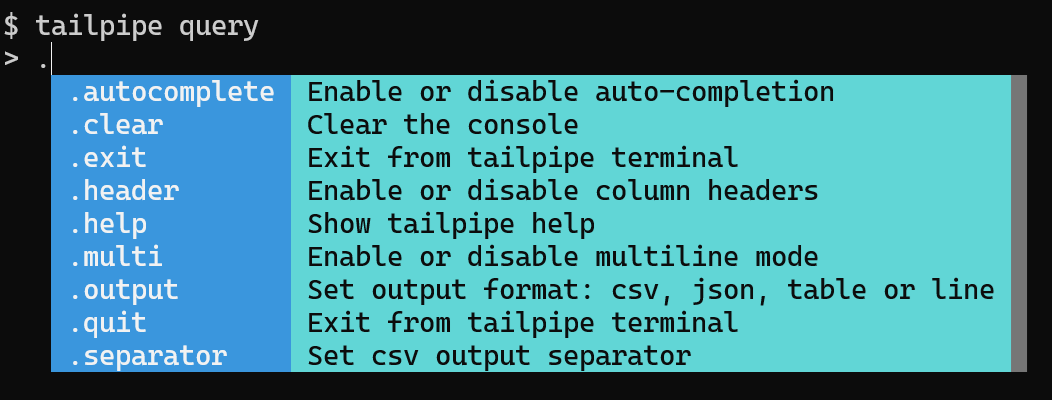
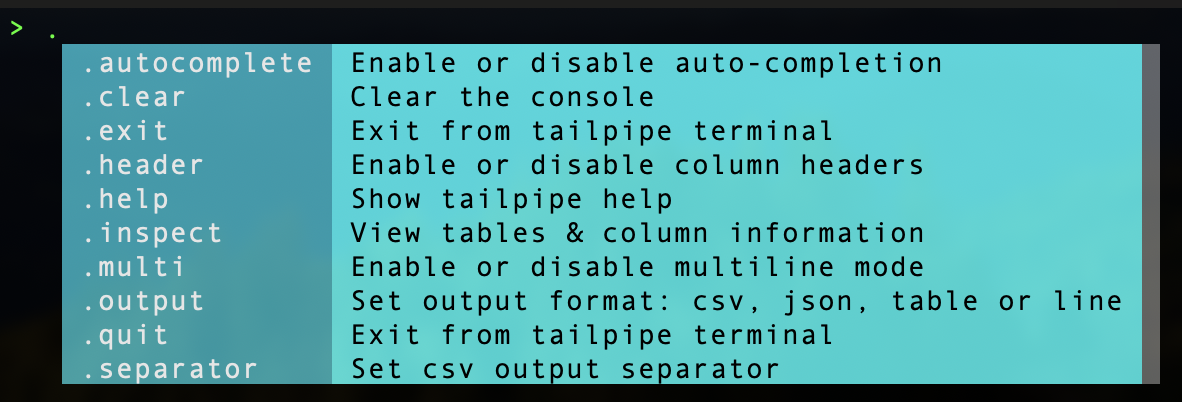
fix images, add inspect

diff --git a/docs/query/query-shell.md b/docs/query/query-shell.md
@@ -38,7 +38,7 @@ You can exit the query shell by pressing `Ctrl+d` on a blank line, or using the 
 ### Autocomplete
 The query shell includes an autocomplete feature that will suggest words as you type.  Type `.` (period). Notice that the autocomplete appears with a list of the [Tailpipe meta-commands](/docs/reference/dot-commands/overview) commands that start with `.`:
 
-![](/images/docs/shell/metacommands.png)
+![](/shell/metacommands.png)
 
 As you continue to type, the autocomplete will continue to narrow down the list of tables to only those that match.
 
@@ -70,10 +70,64 @@ The query shell supports standard emacs-style key bindings:
 
 Tailpipe **tables** provide an interface for querying log data using standard SQL.  Tailpipe tables do not actually *store* data, they query the DuckDB views created over Parquet files collected by `tailpipe collect`. The details are hidden from you though - *you just query them like any other table!*
 
-### Tables
+In the query shell, use `.inspect` to view tables. 
 
-TBD
+```bash
+> .inspect
+Table              Plugin    
+aws_cloudtrail_log aws@local 
+```
 
-### Columns
+Select a table to view its columns.
 
-TBD
+```bash
+> .inspect aws_cloudtrail_log
+Column                          Type      
+additional_event_data           json      
+api_version                     varchar   
+aws_region                      varchar   
+edge_device_details             json      
+error_code                      varchar   
+error_message                   varchar   
+event_category                  varchar   
+event_id                        varchar   
+event_name                      varchar   
+event_source                    varchar   
+event_time                      timestamp 
+event_type                      varchar   
+event_version                   varchar   
+management_event                boolean   
+read_only                       boolean   
+recipient_account_id            varchar   
+request_id                      varchar   
+request_parameters              json      
+resources                       json      
+response_elements               json      
+service_event_details           json      
+session_credential_from_console varchar   
+shared_event_id                 varchar   
+source_ip_address               varchar   
+tls_details                     struct    
+tp_akas                         varchar[] 
+tp_date                         date      
+tp_destination_ip               varchar   
+tp_domains                      varchar[] 
+tp_emails                       varchar[] 
+tp_id                           varchar   
+tp_index                        varchar   
+tp_ingest_timestamp             timestamp 
+tp_ips                          varchar[] 
+tp_partition                    varchar   
+tp_source_ip                    varchar   
+tp_source_location              varchar   
+tp_source_name                  varchar   
+tp_source_type                  varchar   
+tp_table                        varchar   
+tp_tags                         varchar[] 
+tp_timestamp                    timestamp 
+tp_usernames                    varchar[] 
+user_agent                      varchar   
+user_identity                   struct    
+vpc_endpoint_id                 varchar  
+```
+

diff --git a/docs/query/visualization.md b/docs/query/visualization.md
@@ -6,5 +6,5 @@ title: Visualization
 
 Tailpipe works with [Powerpipe](https://powerpipe.io) which enables you to visualize query results. You can view and interactively explore [benchmarks](https://powerpipe.io/docs/powerpipe-hcl/benchmark), which bundle sets of [detections](https://powerpipe.io/powerpipe-hcl/detection) that look for patterns in logs:
 
-![](/images/docs/query/row-level-filtering-1.png)
+![](/query/row-level-filtering-1.png)
 

diff --git a/docs/learn.md b/docs/learn.md
@@ -86,7 +86,7 @@ tailpipe collect aws_cloudtrail_log
 
 Tailpipe will download the files from the source, decompress and parse them, and add the data to the Tailpipe database in the [standard hive file structure](/docs/reference/glossary#hive).
 
-![](/images/docs/learn/collection.png)
+![](/learn/collection.png)
 
 To see the table that was created:
 
